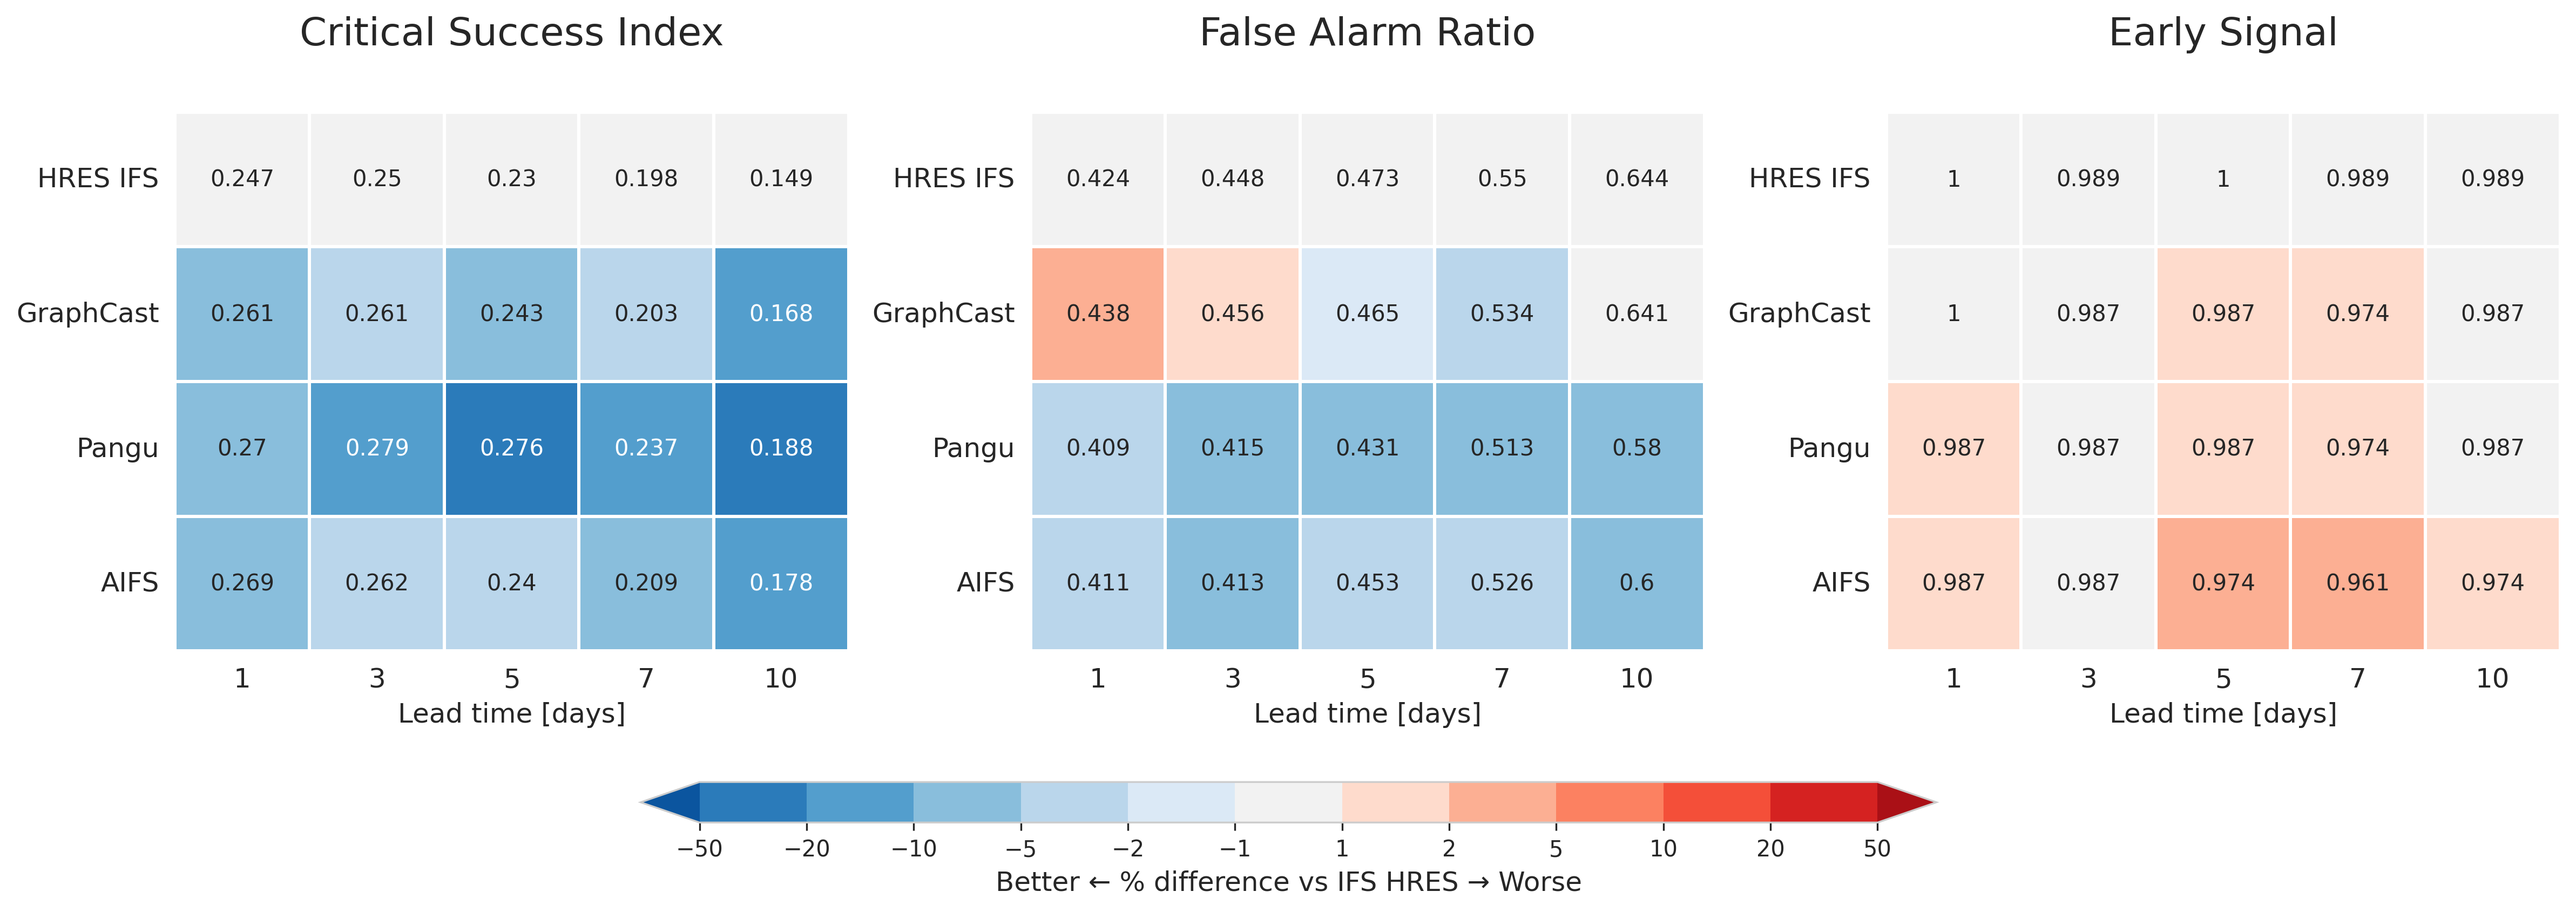
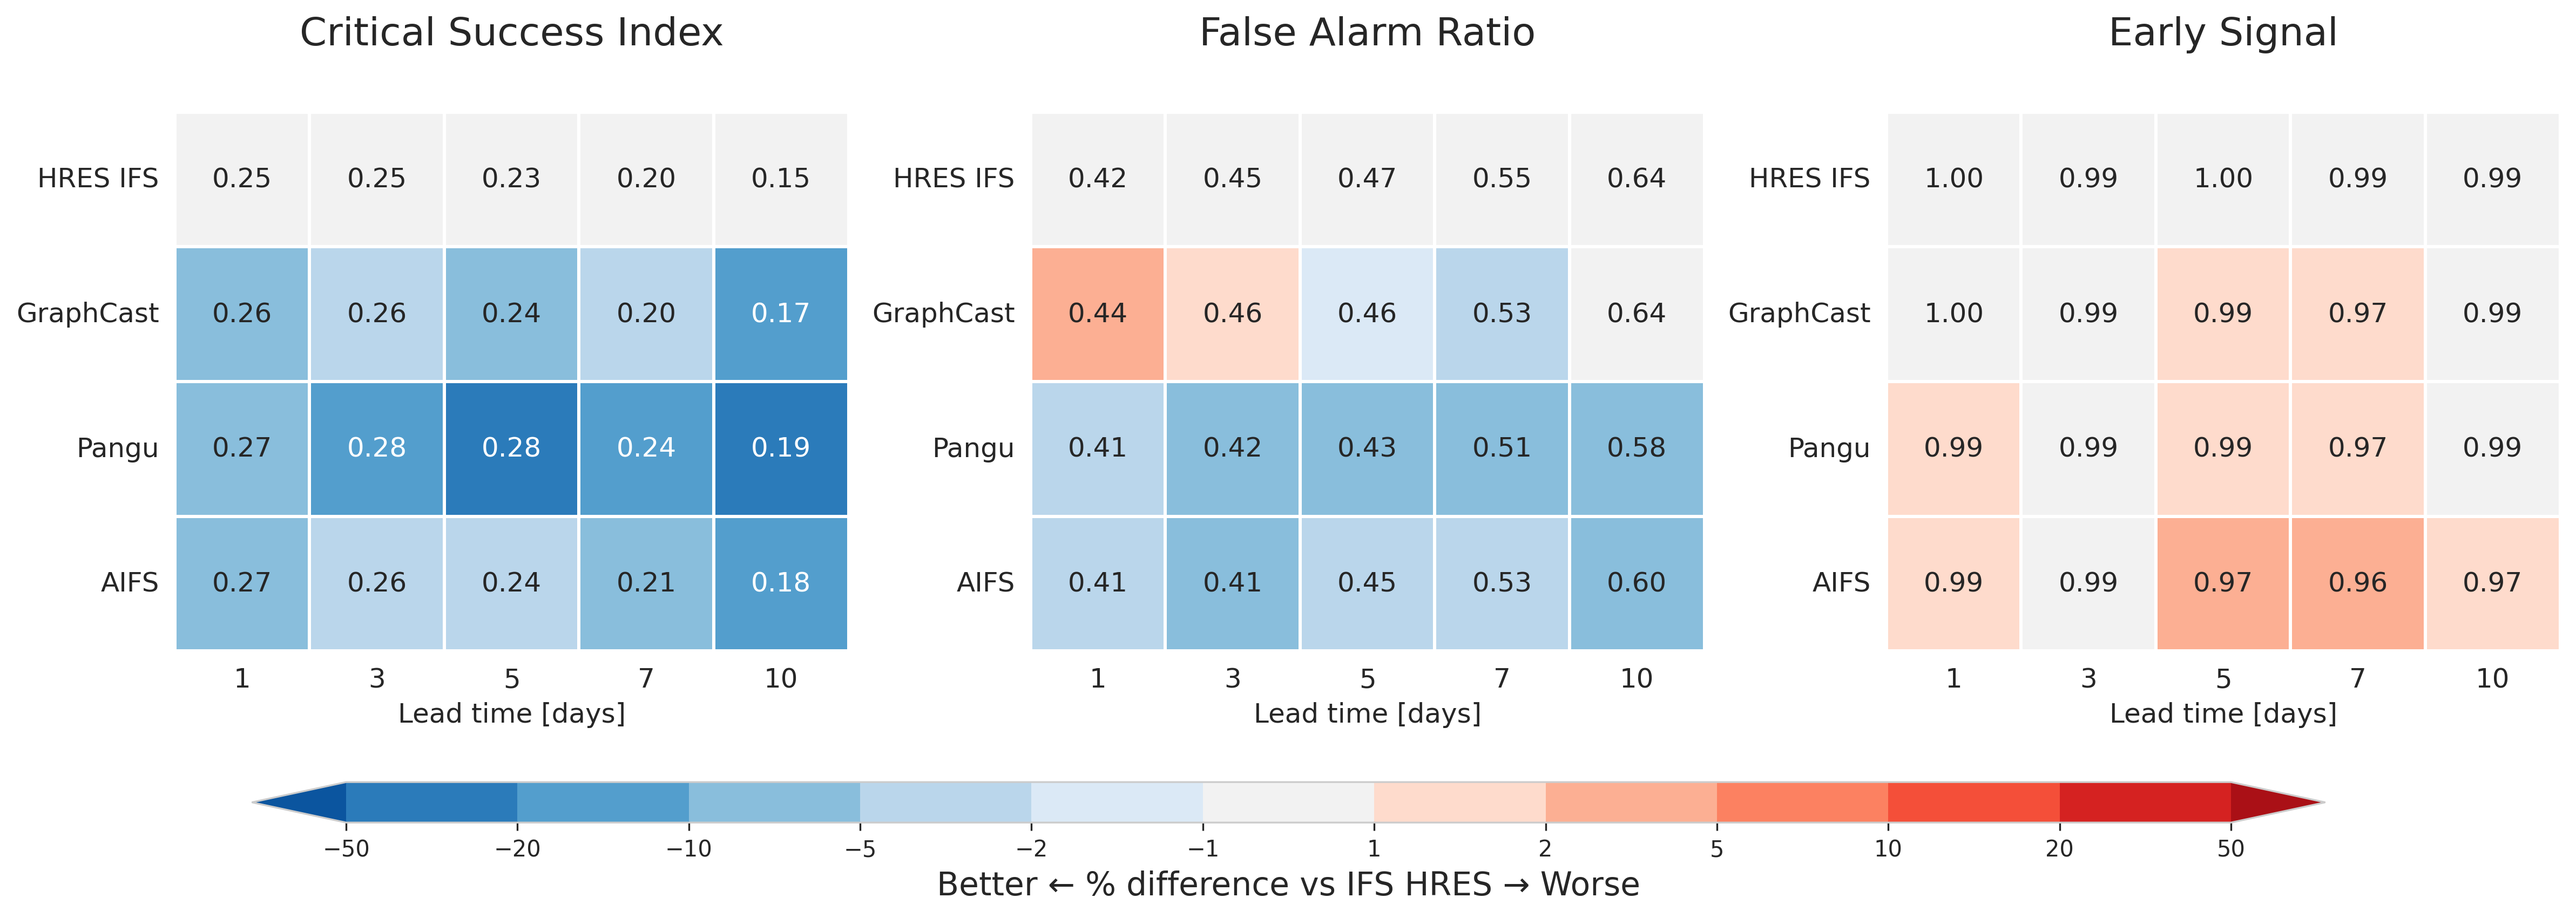
fixed the colorbar formatting for large numbers

diff --git a/src/plots/plotting_utils.py b/src/plots/plotting_utils.py
@@ -1559,11 +1559,28 @@ def plot_heatmap(
         ax = axs[i]
         # print(my_title)
         metric = settings["metric_str"][i]
+       
+        # Determine format based on the range of values being displayed
+        error_values = error_array[metric]
+        error_max = np.nanmax(np.abs(error_values))
+        error_min = np.nanmin(np.abs(error_values[error_values != 0])) if np.any(error_values != 0) else error_max
+        
+        # Choose format based on magnitude
+        if error_max >= 1000:
+            fmt = ".0f"  # No decimals for very large numbers
+        elif error_max >= 100:
+            fmt = ".1f"  # One decimal for large numbers
+        elif error_max >= 1:
+            fmt = ".2f"  # Two decimals for medium numbers
+        elif error_min < 0.01:
+            fmt = ".2g"  # General format (scientific notation) for very small numbers
+        else:
+            fmt = ".3f"  # Three decimals for small numbers
 
         ax = sns.heatmap(
             relative_error_array[metric],
             annot=error_array[metric],
-            fmt=".2f",
+            fmt=fmt,
             cmap=cmap,
             norm=norm,
             vmin=vmin,
@@ -1606,6 +1623,7 @@ def plot_heatmap(
         right = max(bbox.x1 for bbox in bboxes)
         bottom = min(bbox.y0 for bbox in bboxes)
         width = right - left
+        
         # Position colorbar below the subplots with proper spacing
         cbar_height = 0.03
         cbar_spacing = 0.02  # Space between subplots and colorbar
@@ -1613,9 +1631,11 @@ def plot_heatmap(
         cbar_left = left + width * 0.05  # Center 90% width colorbar
         cbar_bottom = bottom - cbar_height - cbar_spacing
         cax = fig.add_axes((cbar_left, cbar_bottom, cbar_width, cbar_height))
+        
         # Create the colorbar using the first subplot's collections
         cb = fig.colorbar(mappable=axs[0].collections[0], cax=cax, **cbar_kws)
         cb.ax.set_xticks(cb_levels)
+        
         # Scale up the label font size for the colorbar (1.2x larger)
         base_size = plt.rcParams['font.size']
         font_scalings = fm.font_scalings
@@ -1630,6 +1650,7 @@ def plot_heatmap(
         cax.set_position([0.1, -0.05, 0.8, 0.05])
         cb = fig.colorbar(mappable=ax.collections[0], cax=cax, **cbar_kws)
         cb.ax.set_xticks(cb_levels)
+        
         # Scale up the label font size for the colorbar (1.2x larger)
         base_size = plt.rcParams['font.size']
         font_scalings = fm.font_scalings
